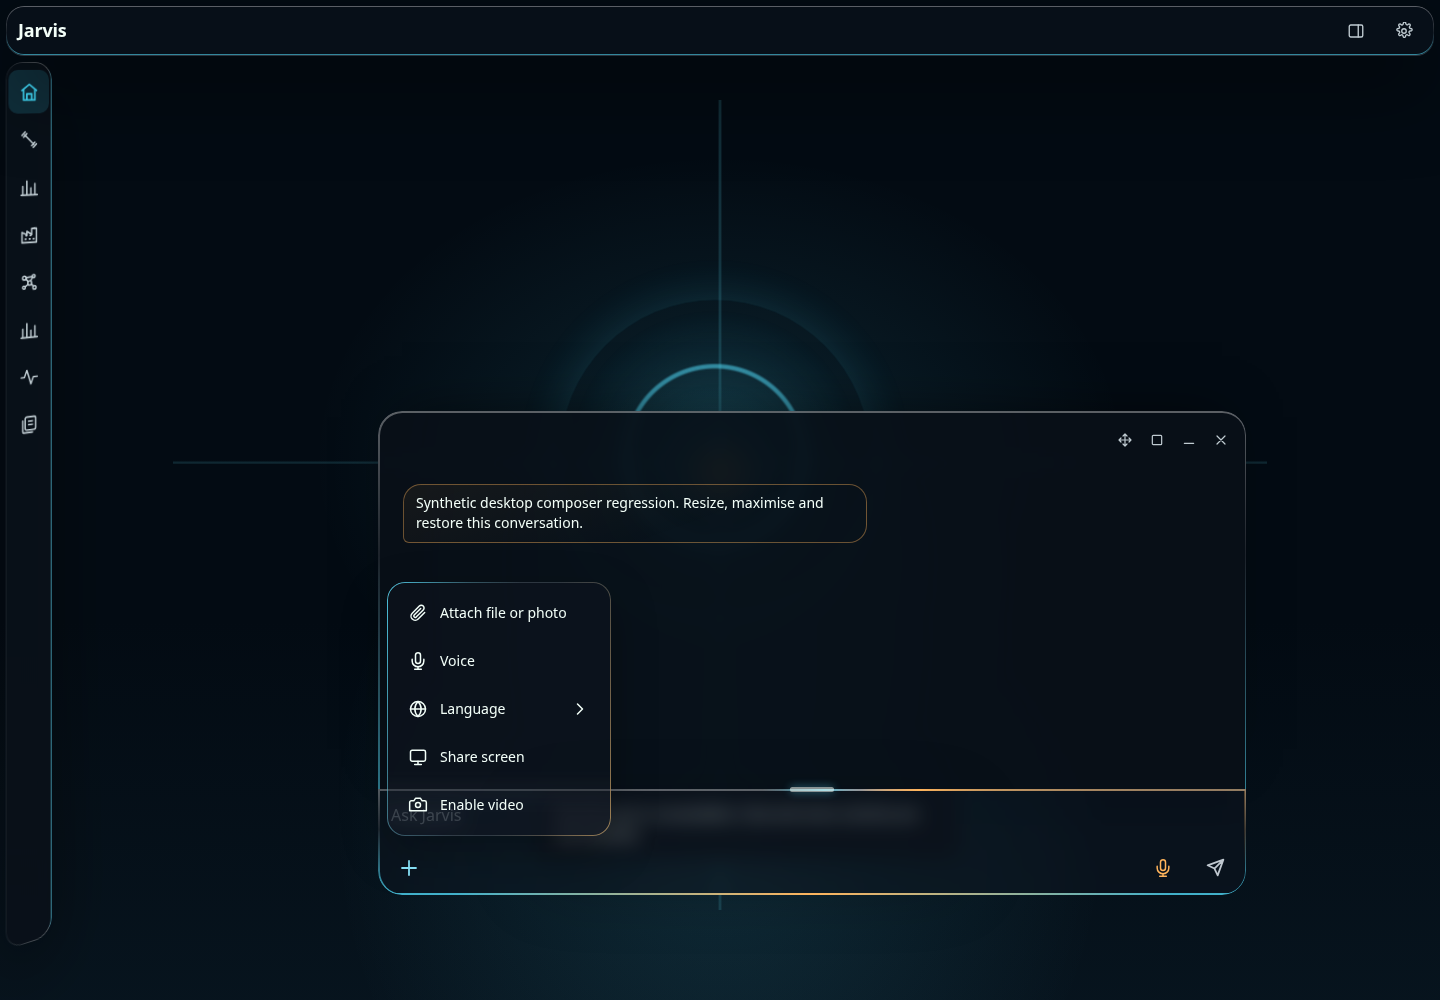
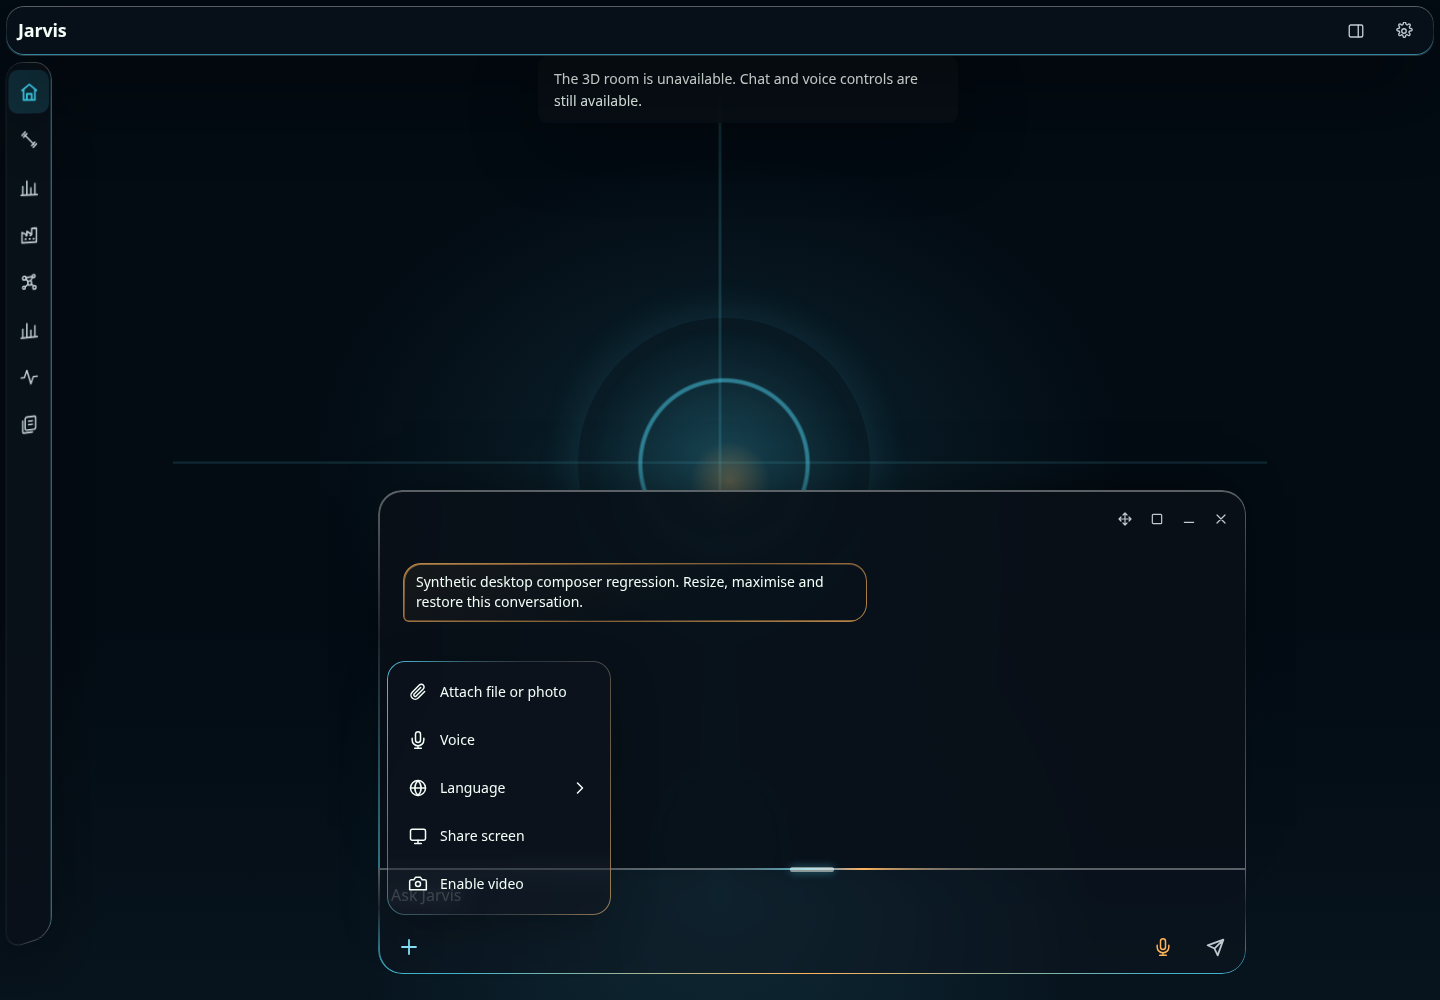
fix: keep initial desktop chat seam clear of room status

diff --git a/apps/web/src/ConversationHistory.css b/apps/web/src/ConversationHistory.css
@@ -25,6 +25,9 @@
 /* Typing mode on the Jarvis page: the workspace fills the stage above the composer without its own panel chrome. */
 .app-shell[data-voice-active="false"] .shell-main:is([data-home="true"] > *) { display: flex; flex-direction: column; }
 .app-shell[data-voice-active="false"] .jarvis-page { flex: 1; height: auto; min-height: 0; }
+/* Keep the room failure notice above the desktop workspace, never between its
+   initially docked history and composer. Positioned history already shares a seam. */
+.app-shell[data-phone="false"][data-voice-active="false"] .jarvis-stage-fallback { order: -2; }
 .app-shell[data-voice-active="false"][data-voice-has-windows="false"] .workspace-shell-area { display: none; }
 .app-shell[data-voice-active="false"][data-voice-has-windows="false"] .workspace-shell-area:not([hidden]):has(.workspace-tabs) { display: block; order: -1; flex: 0 0 auto; }
 .app-shell[data-voice-active="false"][data-voice-has-windows="true"] .workspace-shell-area { order: -1; flex: 1; min-height: 0; overflow: hidden; }

diff --git a/docs/ui/screenshots/1309/fixtures/browser.py b/docs/ui/screenshots/1309/fixtures/browser.py
@@ -2,15 +2,18 @@
 Copy qaapp1301.{html,tsx} from ../1301/fixtures into apps/web; serve Vite on 5174.
 """
 import json
+import sys
 from pathlib import Path
 from playwright.sync_api import sync_playwright
 
-out = Path(__file__).resolve().parents[1]
+real_room = '--real-room' in sys.argv
+out = Path(__file__).resolve().parents[1] / ('real-room' if real_room else '.')
+out.mkdir(exist_ok=True)
 results = []
 with sync_playwright() as p:
-    browser = p.chromium.launch(executable_path='/usr/bin/chromium', args=['--no-sandbox', '--disable-webgl'])
-    for width, height, touch in [(1440, 1000, False), (900, 800, False), (390, 844, True)]:
-        page = browser.new_page(viewport={'width': width, 'height': height}, is_mobile=touch, has_touch=touch, reduced_motion='reduce' if touch else 'no-preference')
+    browser = p.chromium.launch(executable_path='/usr/bin/chromium', args=['--no-sandbox'] + (['--use-angle=swiftshader', '--enable-unsafe-swiftshader'] if real_room else ['--disable-webgl']))
+    for width, height, touch in ([(900, 800, False)] if real_room else [(1440, 1000, False), (900, 800, False), (390, 844, True)]):
+        page = browser.new_page(viewport={'width': width, 'height': height}, is_mobile=touch, has_touch=touch, reduced_motion='reduce' if touch or real_room else 'no-preference')
         errors = []
         page.on('pageerror', lambda e: errors.append(str(e)))
         page.route('**/src/useSignIn.ts', lambda r: r.fulfill(content_type='application/javascript', body="const token=async()=> 'synthetic'; const session={state:'signed-in',profile:{name:'Synthetic QA'},message:'',getAccessToken:token,getEntraAccessToken:token,hasOwnerSession:true,client:{getActiveAccount:()=>({homeAccountId:'synthetic'}),getAllAccounts:()=>[]},signIn:async()=>{},switchAccount:async()=>{},signOut:async()=>{},signOutAllDevices:async()=>{}}; export function useSignIn(){return session;}"))
@@ -43,6 +46,7 @@ with sync_playwright() as p:
                 const rect=s=>{const r=document.querySelector(s).getBoundingClientRect();return {x:r.x,y:r.y,width:r.width,height:r.height,right:r.right,bottom:r.bottom}};
                 return {window:rect('.workspace-window-conversation'),stack:rect('.conversation-input-stack'),composer:rect('.conversation-input'),draft:rect('.composer textarea'),plus:rect('.composer-more'),dictate:rect('.composer-dictate'),send:rect('.composer-send')};
             }""")
+            assert abs(bounds['stack']['y'] - bounds['window']['bottom']) <= 2, (state, 'vertical seam', bounds)
             if not touch:
                 for key in ['composer','stack']:
                     assert abs(bounds[key]['x']-bounds['window']['x']) < 2, bounds
@@ -63,7 +67,11 @@ with sync_playwright() as p:
             assert plus.get_attribute('aria-expanded') == 'false'
             states.append({'state':state,'bounds':bounds,'menuHitTests':3,'pickerClickable':True})
         inspect('normal')
-        if not touch:
+        if real_room:
+            assert page.locator('.jarvis-stage').get_attribute('data-failed') == 'false'
+            assert page.locator('.jarvis-stage canvas').is_visible()
+            assert page.locator('.jarvis-stage-fallback').count() == 0
+        if not touch and not real_room:
             resize = page.get_by_role('button',name='Resize Conversation from right border',exact=True)
             resize.focus(); resize.press('Shift+ArrowRight'); resize.press('Shift+ArrowRight')
             inspect('resized')
@@ -75,7 +83,7 @@ with sync_playwright() as p:
         assert dictate.is_visible() and dictate.is_enabled()
         dictate.click(); page.get_by_role('button',name='Stop dictation',exact=True).wait_for()
         page.evaluate("window.fixtureRecognition.current.onresult({resultIndex:0,results:[Object.assign([{transcript:'Synthetic dictated draft'}],{isFinal:true})]})")
-        assert 'Synthetic dictated draft' in draft.input_value()
+        page.wait_for_function("document.querySelector('.composer textarea').value.includes('Synthetic dictated draft')")
         page.get_by_role('button',name='Stop dictation',exact=True).click()
         assert page.get_by_role('button',name='Dictate',exact=True).is_visible()
         page.locator('[data-testid="attachment-input"]').set_input_files({'name':'synthetic.txt','mimeType':'text/plain','buffer':b'synthetic'})
@@ -87,8 +95,8 @@ with sync_playwright() as p:
         assert draft.bounding_box()['y'] + draft.bounding_box()['height'] <= plus.bounding_box()['y'] + 1
         page.screenshot(path=str(out/f'{width}-feedback-attachment.png'))
         assert not errors, errors
-        results.append({'viewport':[width,height],'touch':touch,'states':states,'dictationStartStop':True,'attachmentsAndFeedback':True,'pageErrors':errors})
+        results.append({'viewport':[width,height],'touch':touch,'realRoom':real_room,'states':states,'dictationStartStop':True,'attachmentsAndFeedback':True,'pageErrors':errors})
         page.close()
     browser.close()
 (out/'measurements.json').write_text(json.dumps(results,indent=2)+'\n')
-print('Passed desktop normal/resized/maximized/restored and phone composer checks')
+print('Passed actual-room initial desktop seam and controls' if real_room else 'Passed desktop normal/resized/maximized/restored and phone composer checks')

diff --git a/docs/ui/screenshots/1309/README.md b/docs/ui/screenshots/1309/README.md
@@ -14,17 +14,29 @@ cp docs/ui/screenshots/1301/fixtures/qaapp1301.html apps/web/
 npm run dev --workspace @jarvis/web -- --host 0.0.0.0 --port 5174
 # Separate shell, from the repository root:
 python3 docs/ui/screenshots/1309/fixtures/browser.py
+# Optional actual-room initial-layout verification using SwiftShader:
+python3 docs/ui/screenshots/1309/fixtures/browser.py --real-room
 rm apps/web/qaapp1301.tsx apps/web/qaapp1301.html
 ```
 
 ## Rendered results
 
 1440×1000 and 900×800 desktop: normal, keyboard-resized, maximized and restored
-chat/composer left and right edges match within 2px. Resized widths are 868px and
-765px, exceeding the old 740px inner cap. Positioned states keep the existing
-2px seam overlap. The unpositioned default layout includes the existing WebGL
-fallback notice between history and composer; its extra clearance is unrelated
-to the fixed-wrapper width bug. Desktop rail remains visible.
+chat/composer left and right edges match within 2px. The vertical seam assertion
+also runs in every state, including the initial docked layout before any resize.
+Resized widths are 868px and 765px, exceeding the old 740px inner cap.
+
+Follow-up review correctly identified a real 79.375px initial gap with the room
+fallback notice. The old workspace flex order put the notice between history
+and composer; resize switched to fixed positioning and concealed the defect.
+`baseline-seam.json` preserves the old measurements, and the new vertical assertion
+failed before the correction. In desktop typing mode the notice now flows above
+the workspace, retaining its status content while keeping history and composer
+adjacent: both initial desktop gaps are now 0px. Positioned states retain the
+existing 2px overlap. A separate 900×800 actual-room SwiftShader run confirms
+the initial 0px seam with a visible canvas, `data-failed=false`, and no fallback
+notice; evidence is in `real-room/`. Desktop navigation
+and voice layout are unchanged.
 
 Each state opens and closes Plus three times with animation allowed to settle.
 Every enabled menu button passes `elementFromPoint` hit testing, including when
@@ -38,6 +50,7 @@ were visually inspected; the maximized popup was also inspected.
 
 `measurements.json` records bounds and assertion outcomes. Screenshots contain
 only the synthetic fixture message/files. Existing timestamp layout is retained.
+The fallback and actual-room initial-layout captures were visually inspected.
 These checks do not establish physical-device, WebKit, real microphone or live
 provider acceptance. The fixture recognition adapter has a synthetic stop event;
 continuous dictation behavior belongs to #1305 and must survive integration.
@@ -52,7 +65,9 @@ continuous dictation behavior belongs to #1305 and must survive integration.
 - `npm run lint`: passed across all four workspaces.
 - `npm run build`: contracts/web passed; backend/vault-mirror failed on missing packages after the blocked full install.
 - `npm test`: interrupted before completion to restore dependencies; contracts could not load `fastify`, and the concurrent web run hit one contrast-test timeout. The separate full web run passed.
-- `python3 docs/ui/screenshots/1309/fixtures/browser.py`: passed on final production code.
+- `python3 docs/ui/screenshots/1309/fixtures/browser.py`: passed on final production code, including the initial vertical seam.
+- `python3 docs/ui/screenshots/1309/fixtures/browser.py --real-room`: passed.
+- Focused `styles.test.tsx`, `stylesheets.test.tsx`, `JarvisStage.test.tsx`, `ConversationHistory.test.tsx` and `ConversationAttachments.test.tsx`: 5 files / 263 tests passed.
 - `PYTHONPATH=.github/scripts python3 -m unittest discover -s .github/scripts/tests -v`: 144 tests, 141 passed; three setup-vault-mirror checks could not run because `pwsh` is absent.
 - `GITHUB_OUTPUT=/tmp/1309-impact-output python3 .github/scripts/pipeline_impact.py --base origin/main`: selects Web and shared Python checks.
 

diff --git a/DESIGN.md b/DESIGN.md
@@ -7,7 +7,9 @@ desktop. The outer measured stack owns width and dock stacking; the inner glass
 surface fills it without an independent chat-width cap. Workspace canvases isolate
 front/maximized windows, so the dock context clears them without exceeding modal
 layers. Voice moves into Plus, and errors use the shared above-surface feedback.
-Message timestamps already sit beneath bubbles; desktop navigation is unchanged.
+The room-unavailable status flows above the desktop workspace in typing mode,
+so it cannot separate the initial docked history from the composer. Message
+timestamps already sit beneath bubbles; desktop navigation is unchanged.
 
 ## Settled glass correction (#1301; 26 October 2026)
 

diff --git a/PLAN.md b/PLAN.md
@@ -6,6 +6,8 @@ Implemented shared two-row styling, desktop Dictate/Voice placement, aligned
 composer width and wrapper stacking, with attachment errors above the surface.
 Synthetic actual-App QA covers desktop normal/resized/maximized/restored states,
 repeated Plus interaction, Dictate start/stop, attachments/errors and phone layout.
+Follow-up fixed the initial vertical seam when the room fallback status is shown;
+the browser fixture now asserts vertical adjacency before any resize and after it.
 Draft publication and integration follow local checks. Coordinator owns the merge
 slot after #1308, #1304, #1305 and #1303; latest-main qualification remains required.
 
